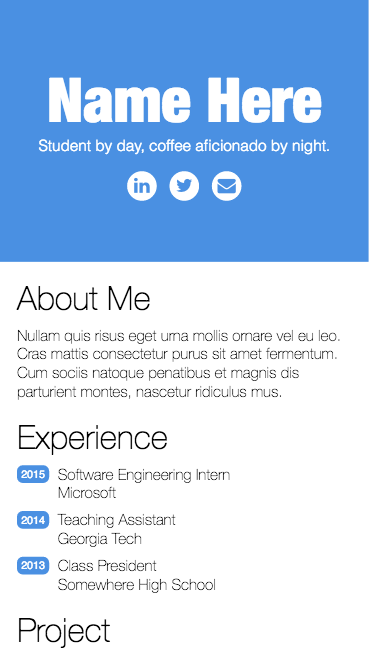
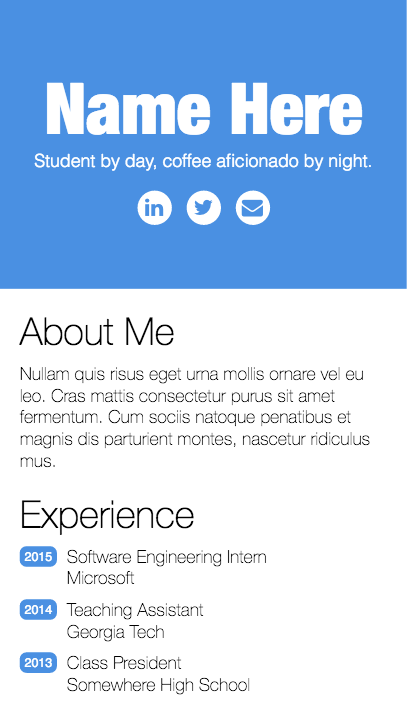
project is now 'projects', updated screenshots

Changed region(s): [[0.0298, 0.4275, 0.8943, 1.0], [0.0894, 0.0916, 0.9241, 0.3359]]

diff --git a/index.html b/index.html
@@ -53,7 +53,7 @@
       </ul>
     </div>
     <div class="col card">
-      <h2>Project</h2>
+      <h2>Projects</h2>
       <p>
         Nullam quis risus eget urna mollis ornare vel eu leo.
         Cras mattis consectetur purus sit amet fermentum.
